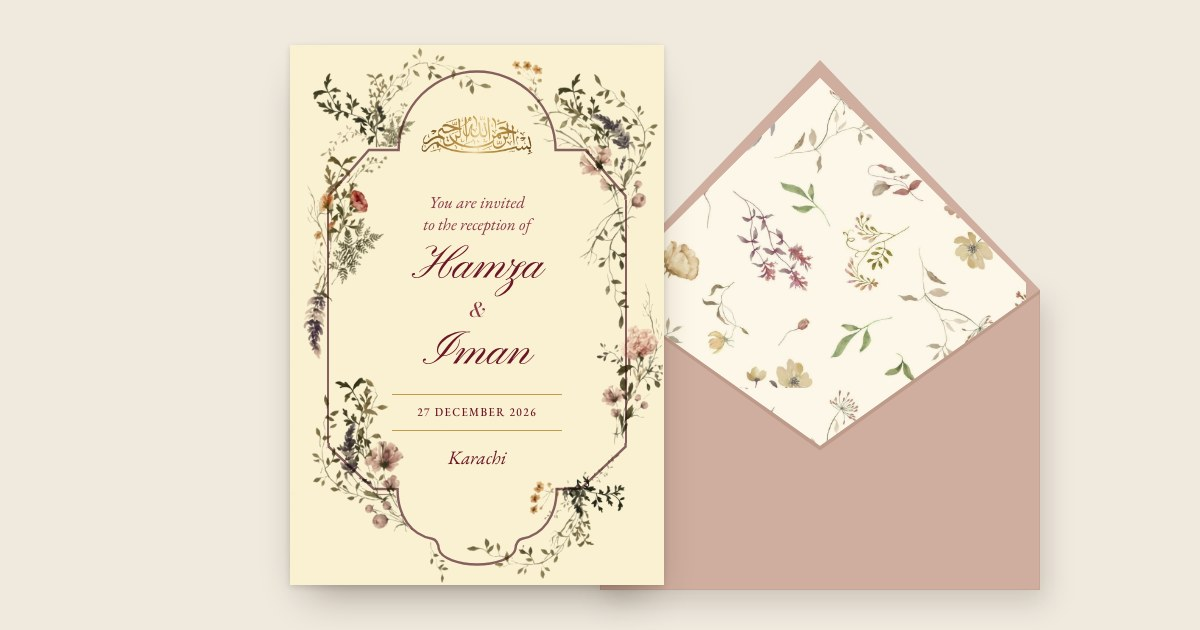
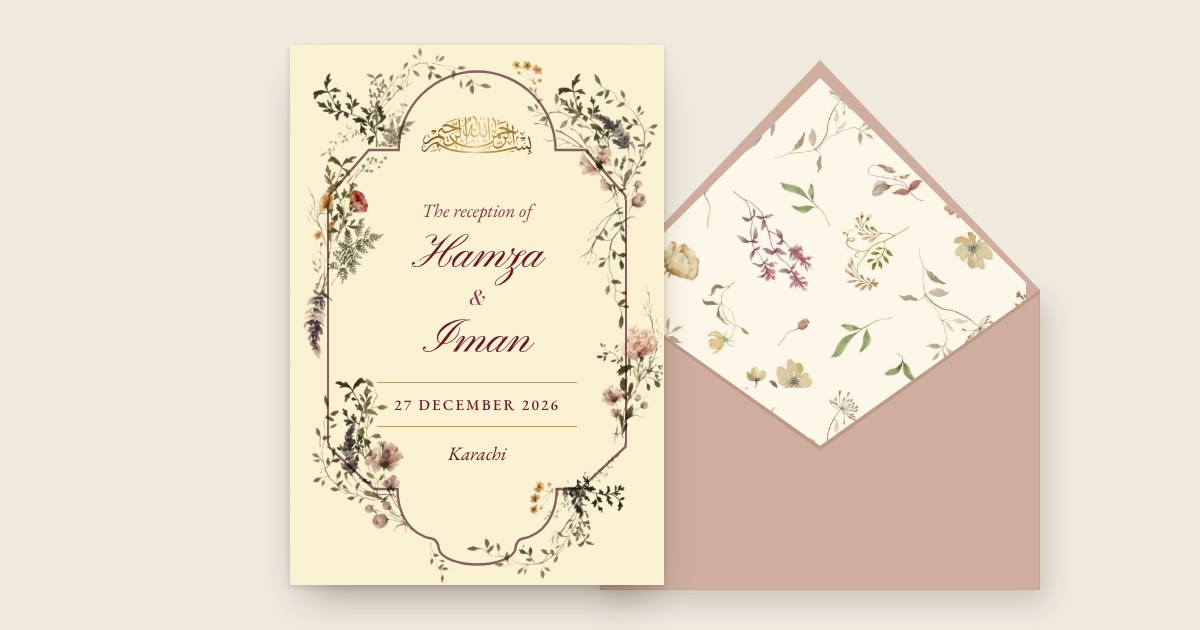
Link previews: 'The wedding of' / 'The reception of' (WhatsApp already says 'You're invited'); larger dates

Changed region(s): [[0.3392, 0.3016, 0.4625, 0.573], [0.3392, 0.6032, 0.4625, 0.754]]

diff --git a/src/entry-og.tsx b/src/entry-og.tsx
@@ -43,14 +43,14 @@ function ShaadiCard() {
       <ReferenceFrame className="folio-frame" bandRatio={0.115} />
       <div style={{ position: 'absolute', inset: 0, zIndex: 2, display: 'flex', flexDirection: 'column', alignItems: 'center', justifyContent: 'center', textAlign: 'center', padding: '0 70px' }}>
         <div className="hero-calligraphy" style={{ width: 150, margin: '0 auto' }} />
-        <p style={{ fontFamily: 'var(--font-body)', fontStyle: 'italic', fontSize: 21, color: 'var(--ink-soft)', marginTop: 22 }}>You are invited to the wedding of</p>
+        <p style={{ fontFamily: 'var(--font-body)', fontStyle: 'italic', fontSize: 23, color: 'var(--ink-soft)', marginTop: 22 }}>The wedding of</p>
         {/* names in the Reception's script (preview only) */}
         <p style={{ fontFamily: "'Pinyon Script'", fontSize: 52, lineHeight: 1.1, color: 'var(--ink)', marginTop: 8 }}>Iman</p>
         <p style={{ fontFamily: 'var(--font-display)', fontStyle: 'italic', fontSize: 22, color: 'var(--ink-soft)', margin: '0 0 2px' }}>&amp;</p>
         <p style={{ fontFamily: "'Pinyon Script'", fontSize: 52, lineHeight: 1.1, color: 'var(--ink)' }}>Hamza</p>
-        <span style={{ display: 'block', width: 200, height: 1, background: 'var(--gold)', margin: '22px auto 0' }} />
-        <p style={{ ...caps, fontSize: 14, letterSpacing: '0.22em', margin: '11px 0' }}>21 December 2026</p>
-        <span style={{ display: 'block', width: 200, height: 1, background: 'var(--gold)', margin: '0 auto' }} />
+        <span style={{ display: 'block', width: 250, height: 1, background: 'var(--gold)', margin: '22px auto 0' }} />
+        <p style={{ ...caps, fontSize: 20, letterSpacing: '0.2em', margin: '12px 0' }}>21 December 2026</p>
+        <span style={{ display: 'block', width: 250, height: 1, background: 'var(--gold)', margin: '0 auto' }} />
         <p style={{ fontFamily: 'var(--font-body)', fontStyle: 'italic', fontSize: 22, color: 'var(--ink)', marginTop: 18 }}>Lahore</p>
       </div>
     </div>
@@ -64,13 +64,13 @@ function ReceptionCard() {
       <ArchFrame />
       <div style={{ position: 'absolute', inset: 0, zIndex: 3, display: 'flex', flexDirection: 'column', alignItems: 'center', textAlign: 'center', paddingTop: 70 }}>
         <div className="hero-calligraphy" style={{ width: 112, margin: '0 auto' }} />
-        <p style={{ fontFamily: 'var(--font-body)', fontStyle: 'italic', fontSize: 17, lineHeight: 1.3, color: 'var(--ink-soft)', marginTop: 36 }}>You are invited<br />to the reception of</p>
+        <p style={{ fontFamily: 'var(--font-body)', fontStyle: 'italic', fontSize: 19, lineHeight: 1.3, color: 'var(--ink-soft)', marginTop: 44 }}>The reception of</p>
         <p style={{ fontFamily: "'Pinyon Script'", fontSize: 48, lineHeight: 1.1, color: 'var(--ink)', marginTop: 6 }}>Hamza</p>
         <p style={{ fontFamily: 'var(--font-display)', fontStyle: 'italic', fontSize: 20, color: 'var(--ink-soft)', margin: '0 0 2px' }}>&amp;</p>
         <p style={{ fontFamily: "'Pinyon Script'", fontSize: 48, lineHeight: 1.1, color: 'var(--ink)' }}>Iman</p>
-        <span style={{ display: 'block', width: 170, height: 1, background: 'var(--gold)', margin: '14px auto 0' }} />
-        <p style={{ ...caps, fontSize: 11, letterSpacing: '0.13em', margin: '9px 0' }}>27 December 2026</p>
-        <span style={{ display: 'block', width: 170, height: 1, background: 'var(--gold)', margin: '0 auto' }} />
+        <span style={{ display: 'block', width: 200, height: 1, background: 'var(--gold)', margin: '14px auto 0' }} />
+        <p style={{ ...caps, fontSize: 15, letterSpacing: '0.14em', margin: '10px 0' }}>27 December 2026</p>
+        <span style={{ display: 'block', width: 200, height: 1, background: 'var(--gold)', margin: '0 auto' }} />
         <p style={{ fontFamily: 'var(--font-body)', fontStyle: 'italic', fontSize: 19, color: 'var(--ink)', marginTop: 12 }}>Karachi</p>
       </div>
     </div>
